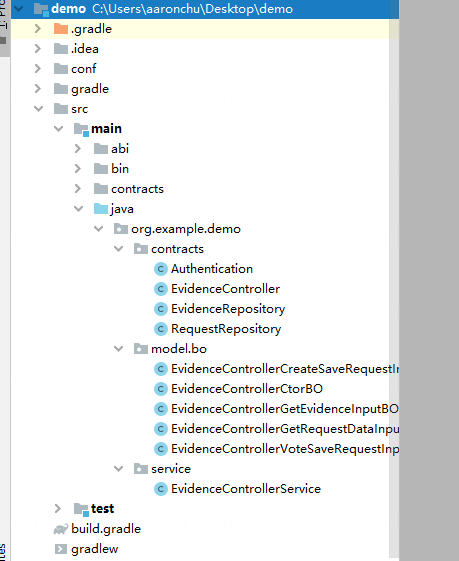
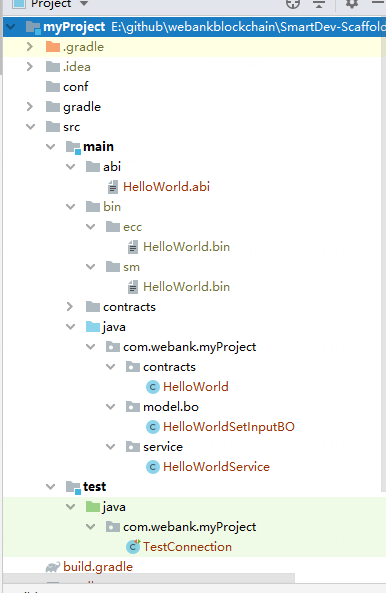
.

diff --git a/docs/WeBankBlockchain-Toolkit-Scaffold/intro.md b/docs/WeBankBlockchain-Toolkit-Scaffold/intro.md
@@ -20,33 +20,22 @@
 
 
 ### 安装脚手架
-可通过源码安装，也可以直接基于release安装。
-#### 通过源码安装
 目前支持从源码安装。
 
 ```
 git clone https://github.com/WeBankBlockchain/SmartDev-Scaffold.git
-cd SmartDev-Scaffold
+cd SmartDev-Scaffold/tools
 ```
 
-#### 通过Release安装
+tools目录包含了执行环境，其结构为：
+```
+├── tools
+│   ├── contracts
+│   ├──── HelloWorld.sol
+│   ├── run.sh
+```
+其中contracts目录用于存放solidity合约文件，脚手架后续会读取该目录下的合约以生成对应的业务工程。请删除该目录下的默认合约，并将自己的业务合约拷贝到该目录下。
 
-```
-curl https://github.com/WeBankBlockchain/SmartDev-Scaffold/release/1.0.0/scaffold.jar
-tar -xvf scaffold.jar .
-```
-
-### 拷贝合约代码和配置文件
-
-将solidity文件拷贝到SmartDev-Scaffold的contracts目录下
-```
-cp -r [solidity folder]/*.sol contracts
-```
-
-将配置文件拷贝到SmartDev-Scaffold的conf目录下。conf包含证书和配置信息，更多请见[说明](https://fisco-bcos-documentation.readthedocs.io/zh_CN/latest/docs/sdk/java_sdk/configuration.html)
-```
-cp -r [conf]/* conf
-```
 ### 运行脚手架
 
 ```
@@ -54,25 +43,31 @@ chmod +x run.sh
 bash run.sh
 ```
 
-用户可以指定group名和项目名，例如
+用户可以指定artifact和group，例如
 ```
-bash run.sh com.webank demo
+bash run.sh myProject com.webank
 ```
 
-如果用户不指定，则默认group采用org.example, 项目名采用demo。输出物的包名将结合group和项目名。
+如果用户不指定，则项目名默认采用demo，group默认采用org.example。
 
 ### 生成效果
-运行成功后，可在artifacts目录下得到项目工程，如下示例：
-
+运行成功后，会在目录下得到一个项目工程项目：
+```
+├─contracts
+├─run.sh
+└─myProject
+```
+其中生成项目的具体内容如下：
 ![](image/Sample.png)
 
-可直接运行新的工程的测试用例，该测试用例会测试和节点的连接性，如未报错即为成功：
-```
-cd [demo directory]
-gradle test
-```
+其中：
+- conf目录包含区块链链接配置。关于配置的信息更多请见[说明](https://fisco-bcos-documentation.readthedocs.io/zh_CN/latest/docs/sdk/java_sdk/configuration.html)
+- bo目录包含了合约函数输入参数的封装POJO类。
+- service目录包含了每个智能合约的输入参数。
 
 ### 后续合约开发
+
+请将配置文件拷贝到生成工程的conf目录下。conf包含证书和配置信息，
 
 当用户基于生成的项目进行开发时，若需要修改合约，用户在修改完合约后，可在项目工程目录下直接编译合约：
 ```
@@ -80,7 +75,7 @@ cd [demo directory]
 gradle solc
 ```
 
-新的java合约及abi、bin会被刷新到目录下。
+新的abi、bin会被刷新到目录下。
 
 ### 后续项目开发
 
@@ -88,15 +83,18 @@ gradle solc
 
 ```
     @Test
-    public void demo() throws Exception {
+    public void test() throws Exception {
 
         BcosSDK bcosSDK = BcosSDK.build("conf/config.toml");
         Client client = bcosSDK.getClient(1);
 
-        String contractAddress = "0x...";
-        EvidenceControllerService service
-                = new EvidenceControllerService(contractAddress, client);
-        TransactionResponse response = service.voteSaveRequest(new EvidenceControllerVoteSaveRequestInputBO(new byte[]{1,2,3}));
-
+        //方式1：自动部署一个合约
+        HelloWorldService service
+                = new HelloWorldService(client);//替换成实际生成项目中的对应合约
+        //方式2：从指定地址加载合约
+        HelloWorldService service2
+                = new HelloWorldService(service.getAddress(), client);//替换成实际生成项目中的对应合约
+        TransactionResponse setResponse = service.set(new HelloWorldSetInputBO("hello"));
+        CallResponse callResponse = service.get();
     }
 ```

diff --git a/docs/WeBankBlockchain-Toolkit-Scaffold/index.md b/docs/WeBankBlockchain-Toolkit-Scaffold/index.md
@@ -14,3 +14,51 @@
    
    intro.md
 ```
+```
+package org.example.demo.service;
+
+import java.lang.Exception;
+import java.lang.String;
+import java.util.Arrays;
+import org.example.demo.model.bo.HelloWorldSetInputBO;
+import org.fisco.bcos.sdk.client.Client;
+import org.fisco.bcos.sdk.transaction.manager.AssembleTransactionProcessor;
+import org.fisco.bcos.sdk.transaction.manager.TransactionProcessorFactory;
+import org.fisco.bcos.sdk.transaction.model.dto.CallResponse;
+import org.fisco.bcos.sdk.transaction.model.dto.TransactionResponse;
+
+public class HelloWorldService {
+  public static final String ABI = org.example.demo.contracts.HelloWorld.ABI;
+
+  public static final String BINARY = org.example.demo.contracts.HelloWorld.BINARY;
+
+  public static final String SM_BINARY = org.example.demo.contracts.HelloWorld.BINARY;
+
+  private String address;
+
+  private Client client;
+
+  AssembleTransactionProcessor txProcessor;
+
+  public HelloWorldService(String address, Client client) throws Exception {
+    this.client = client;
+    this.txProcessor = TransactionProcessorFactory.createAssembleTransactionProcessor(this.client, this.client.getCryptoSuite().getCryptoKeyPair());
+    this.address = address;
+  }
+
+  public HelloWorldService(Client client) throws Exception {
+    this.client = client;
+    this.txProcessor = TransactionProcessorFactory.createAssembleTransactionProcessor(this.client, this.client.getCryptoSuite().getCryptoKeyPair());
+    this.address = this.txProcessor.deployAndGetResponse(ABI,this.client.getCryptoType()==0?BINARY:SM_BINARY).getContractAddress();
+  }
+
+  public TransactionResponse set(HelloWorldSetInputBO input) throws Exception {
+    return this.txProcessor.sendTransactionAndGetResponse(this.address, ABI, "set", input.toArgs());
+  }
+
+  public CallResponse get() throws Exception {
+    return this.txProcessor.sendCall(this.client.getCryptoSuite().getCryptoKeyPair().getAddress(), this.address, ABI, "get", Arrays.asList());
+  }
+}
+
+```
